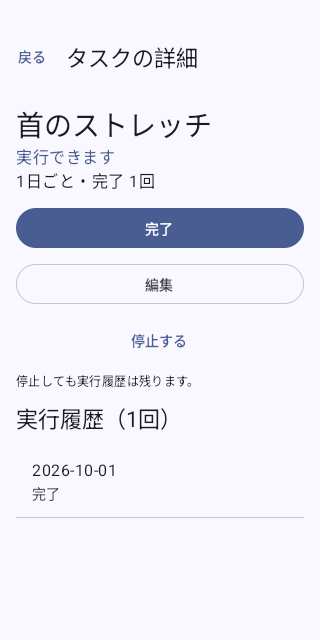
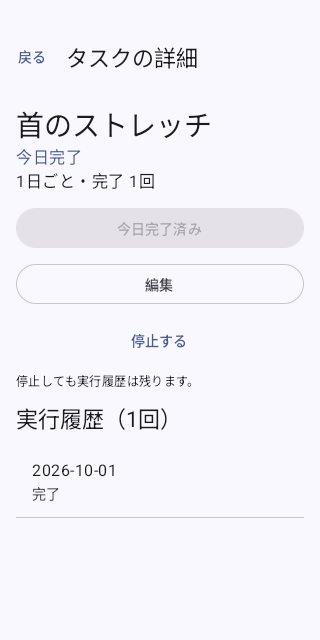
test: await saved detail screen before scrolling history

Changed region(s): [[0.0312, 0.3125, 0.9688, 0.4062], [0.0312, 0.2188, 0.3438, 0.2812]]

diff --git a/app/src/androidTest/java/dev/tasknudge/ScreenshotTest.kt b/app/src/androidTest/java/dev/tasknudge/ScreenshotTest.kt
@@ -172,7 +172,15 @@ class ScreenshotTest {
         )
     }
 
-    private fun saveVisibleEditor() { compose.onNodeWithText("保存").performScrollTo().assertIsDisplayed().performClick() }
+    private fun saveVisibleEditor() {
+        compose.onNodeWithText("保存").performScrollTo().assertIsDisplayed().performClick()
+        // Save commits asynchronously; the app navigates to the detail screen only once
+        // the committed TaskSaved result is observed in a snapshot. Wait for that
+        // screen-owned transition (its title) before any history scroll, otherwise a
+        // scroll can still target the stale editor's own scrollable container.
+        compose.waitUntil(10_000) { compose.onAllNodesWithText("タスクの詳細").fetchSemanticsNodes().isNotEmpty() }
+        compose.onNodeWithText("タスクの詳細").assertIsDisplayed()
+    }
 
     private fun clickAddFab() { waitForAddFabVisible(); compose.onNodeWithContentDescription("タスクを追加").performClick() }
 

diff --git a/docs/development-handoff.md b/docs/development-handoff.md
@@ -70,12 +70,14 @@ Task1–3 の実装・修正担当は **gpt-6.1-sol high**。architecture review
 
 - 担当: `/root/task4_implementation`。開始点 `910a682`。原 brief と逐次証拠は `.superpowers/sdd/2026-09-30-task-nudge/task-4-brief.md` / `task-4-report.md`。実 Room + Android 通知 + Receiver、Activity/Compose、通知タップ、回転、文字拡大、通知無効、実画像、検証スクリプト、SHA 固定 Actions は実装済み。
 - ホスト gate `scripts/check.sh` は JDK17 / SDK36 / Gradle8.13、`--max-workers=1` で成功。最新の時計境界修正後も exit 0、94 tasks（25 executed / 69 up-to-date）。`git diff --check` も成功。実端末テストは次の CI で確証する。
-- [CI 36950190490](https://github.com/yutotamura55/task-nudge/actions/runs/36950190490) はホスト101/101、API35 emulator 23件中22件成功。3枚の実 Compose PNG は回収・原寸視認済みで、画面撮影境界の問題は解消。ただし履歴画像は記録日 `2026-10-01` に対して、端末の当日 `2026-10-02` として有効な「完了」を表示し、最後の1件が失敗した。画像はまだ掲載しない。
+- [CI 36950190490](https://github.com/yutotamura55/task-nudge/actions/runs/36950190490) はホスト101/101、API35 emulator 23件中22件成功。3枚の実 Compose PNG は回収・原寸視認済みで、画面撮影境界の問題は解消。ただし履歴画像は記録日 `2026-10-01` に対して、端末の当日 `2026-10-02` として有効な「完了」を表示し、最後の1件が失敗した。これが時計境界修正の証拠となった。
 - 原因は engine/Room がテスト固定 Clock と Tokyo Zone を使う一方、`TaskNudgeApp` が別の `Instant.now()` / `ZoneId.systemDefault()` を読んでいたこと。既存 `AppContainer` の Clock/Zone を MainActivity 経由で UI と共有する最小修正と、2030-04-04 Tokyo の「今日の完了」一覧・詳細回帰を追加した。既存 CI の Activity 失敗が実行時の red、追加テストの修正前 red は新引数欠落による compile failure と区別する。次の CI は instrumented 24件を実行する。
 - 差分4ファイルの独立 read-only review は Copilot CLI の実モデル `claude-sonnet-5` が exit0、blocking defect / 退行なし。全体・先行差分のレビューも [review-record.md](review-record.md) に保存済み。setup-android v3 の Node20 / forced Node24 annotation は既知で、セットアップは成功している。
 - README / [testing.md](testing.md) は日本語の利用・検証手順、API26、専用 test 端末、UTP の app uninstall、CI debug 署名の実行間非固定を記載済み。CI `36950190490` の実スクリーンショット3枚は原寸確認・artifact と SHA-256 照合後 `docs/screenshots/` に保存し、README に掲載した。この run 全体は22/23であり、**最終24件の端末 pass は未確認**。
 
 ## 残る工程
+
+最新状態: commit `beef056`、[draft PR #2](https://github.com/yutotamura55/task-nudge/pull/2)。push CI [36952478562](https://github.com/yutotamura55/task-nudge/actions/runs/36952478562) はホスト成功・端末24/24成功。同じcommitのPR CI [36952524280](https://github.com/yutotamura55/task-nudge/actions/runs/36952524280) はホスト成功・端末23/24成功。文字拡大テストが、保存後の非同期遷移前にeditorのスクロール領域で詳細履歴を探して失敗した。Copilot CLIへScreenshotTestだけの限定修正を委任中。担当subagentは使用上限で停止、親が検証とレビュー・CI追跡を引き継いだ。全件成功をPRでも確認するまでdraftのまま。
 
 1. 時計境界修正を feature branch に push し、API35 CI のホスト101件・instrumented **24件全成功**を確認する。失敗時は XML/logcat/画像を根拠に原因を特定する。
 2. 3画像の撮影元は CI `36950190490` と明示済み。次の成功 run の画像も確認し、差異や品質問題があれば差し替える。README / `docs/testing.md` / この handoff / Task4 report に最終 URL・結果を記録する。

diff --git a/README.md b/README.md
@@ -27,7 +27,7 @@ Android 13 以上では、明示的に「通知を有効にする」を押した
 
 ## 画面
 
-[API 35 エミュレーターの CI 実行](https://github.com/yutotamura55/task-nudge/actions/runs/36950190490)で撮影し、原寸で確認した実画面です。
+[API 35 エミュレーターの CI 実行](https://github.com/yutotamura55/task-nudge/actions/runs/36952478562)で撮影し、原寸で確認した実画面です。
 
 | タスク一覧 | 完了履歴 | 通知設定 |
 | --- | --- | --- |
